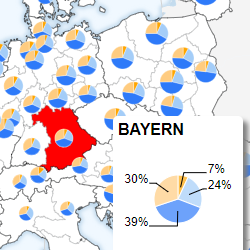
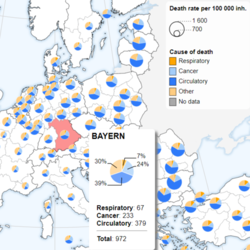
update pie preview img

diff --git a/test/test_pie.html b/test/test_pie.html
@@ -102,7 +102,7 @@
           //map styling
           .seaFillStyle("aliceblue")
           .nutsrgFillStyle("white")
-          .nutsrgSelFillSty("red")
+          .nutsrgSelFillSty("#fc9292")
           .nutsbnStroke({ 0: "black", 1: "grey", 2: "grey", 3: "grey", oth: "grey", co: "black" })
           .nutsbnStrokeWidth({ 0: 0.5, 1: 0.4, 2: 0.4, 3: 0.4, oth: 0.4, co: 0.5 })
           .landFillStyle("#f4f4f4")

diff --git a/README.md b/README.md
@@ -11,6 +11,7 @@ Reusable library to quickly create and customise web maps based on [NUTS regions
 [![Example](https://raw.githubusercontent.com/eurostat/eurostat-map.js/master/docs/img/pp_ex.png)](https://eurostat.github.io/eurostat-map.js/examples/population-dot-density.html)
 [![Example](https://raw.githubusercontent.com/eurostat/eurostat-map.js/master/docs/img/pc_ex.png)](https://eurostat.github.io/eurostat-map.js/examples/prop-circles.html)
 [![Example](https://raw.githubusercontent.com/eurostat/eurostat-map.js/master/docs/img/ps_ex.png)](https://eurostat.github.io/eurostat-map.js/examples/prop-symbols.html)
+[![Example](https://raw.githubusercontent.com/eurostat/eurostat-map.js/master/docs/img/pie_ex.png)](https://eurostat.github.io/eurostat-map.js/examples/prop-piecharts.html)
 [![Example](https://raw.githubusercontent.com/eurostat/eurostat-map.js/master/docs/img/comp1.png)](https://eurostat.github.io/eurostat-map.js/examples/livestock_composition.html)
 [![Example](https://raw.githubusercontent.com/eurostat/eurostat-map.js/master/docs/img/dv_ex.png)](https://eurostat.github.io/eurostat-map.js/examples/population-change.html)
 [![Example](https://raw.githubusercontent.com/eurostat/eurostat-map.js/master/docs/img/chbi_ex.png)](https://eurostat.github.io/eurostat-map.js/examples/pop-unemploy-bivariate.html)
